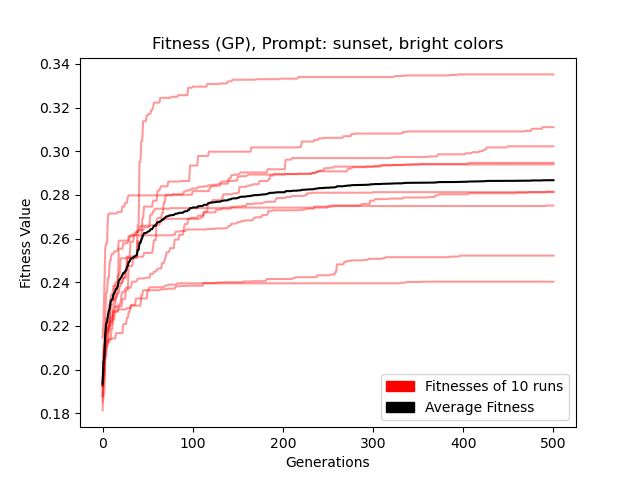
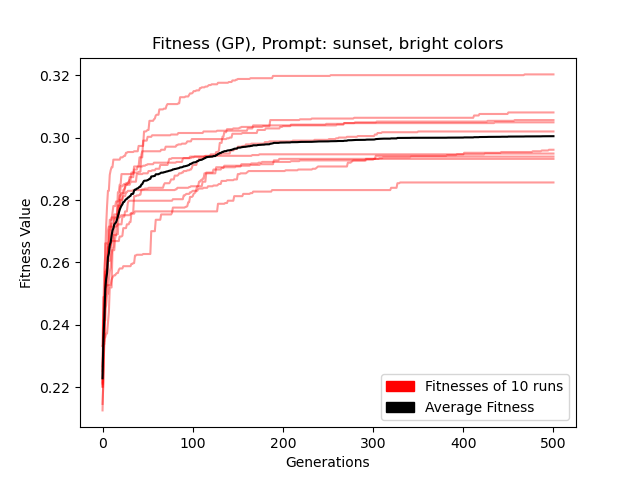
Change from smily to smiley

diff --git a/collect_stats.py b/collect_stats.py
@@ -17,12 +17,12 @@ def tolerant_mean(arrs):
     return arr.mean(axis=-1)
 
 
-def collect_cgp_stats():
-    rootdir = './cgp/runs'
+def collect_cgp_native_stats():
+    rootdir = './cgp/runs_native'
     all_fitnesses = []
 
     # Iterate over files in directory
-    for folder in os.listdir(rootdir):
+    for folder in sorted(os.listdir(rootdir)):
         if folder != ".DS_Store":
             stats_file = f'{rootdir}/{folder}/pop_stats.csv'
 
@@ -61,7 +61,54 @@ def collect_cgp_stats():
         plt.xlabel('Generations')
         plt.ylabel('Fitness Value')
 
-        plt.savefig("./stats/cgp_" + prompts[i].replace(",", "").replace(" ", "_") + ".png")
+        plt.savefig("./stats/cgp_native_" + prompts[i].replace(",", "").replace(" ", "_") + ".png")
+
+
+def collect_cgp_hal_stats():
+    rootdir = './cgp/runs_hal'
+    all_fitnesses = []
+
+    for folder in ["sunset,_bright_colors", "hot_air_balloon", "smiley"]:
+        for i in range(1, 11):
+            stats_file = f'{rootdir}/hal_cgp_{folder}_{i}/stats.csv'
+
+            if os.path.isfile(stats_file):
+                # print(stats_file)
+                df = pd.read_csv(stats_file)
+                fitnesses = df['Max Fitness'].values.tolist()
+
+                all_fitnesses.append(fitnesses)
+
+    # Calculate average from 10 lists
+    avg_first = np.array(all_fitnesses[:10]).mean(axis=0)
+    avg_second = np.array(all_fitnesses[10:20]).mean(axis=0)
+    avg_third = np.array(all_fitnesses[20:]).mean(axis=0)
+
+    averages = [avg_first, avg_second, avg_third]
+
+    generations = list(range(len(all_fitnesses[0])))
+
+    index = 0
+    for i in range(3):
+        plt.figure()
+        for j in range(10):
+            plt.plot(generations, all_fitnesses[index], label=f"Run {j}", color="red", alpha=0.4)
+            index += 1
+
+        plt.plot(generations, averages[i], label="Average", color="black")
+
+        red_patch = mpatches.Patch(color='red', label='Fitnesses of 10 runs')
+        blue_patch = mpatches.Patch(color='black', label='Average Fitness')
+
+        plt.legend(handles=[red_patch, blue_patch])
+
+        # Adding title and labels
+        plt.title('Fitness (CGP), Prompt: ' + prompts[i])
+        plt.xlabel('Generations')
+        plt.ylabel('Fitness Value')
+
+        plt.savefig("./stats/cgp_hal_" + prompts[i].replace(",", "").replace(" ", "_") + ".png")
+
 
 
 def collect_gp_stats():
@@ -69,7 +116,7 @@ def collect_gp_stats():
     all_fitnesses = []
 
     # Iterate over files in directory
-    for folder in os.listdir(rootdir):
+    for folder in sorted(os.listdir(rootdir)):
         if folder != ".DS_Store":
             stats_file = f'{rootdir}/{folder}/evolution_{folder}.csv'
 
@@ -120,11 +167,12 @@ def collect_cfdg_stats():
     all_fitnesses = []
     for folder in [sunset_folder, smiley_folder, balloons_folder]:
         experiment_fitness = []
-        for run_folder in os.listdir(folder):
-            stats_file = f'{folder}/{run_folder}/fitness/run_statistics.csv'
-            df = pd.read_csv(stats_file)
-            fitness = df['Max CLIP'].values
-            experiment_fitness.append(fitness)
+        for run_folder in sorted(os.listdir(folder)):
+            if run_folder != ".DS_Store":
+                stats_file = f'{folder}/{run_folder}/fitness/run_statistics.csv'
+                df = pd.read_csv(stats_file)
+                fitness = df['Max CLIP'].values
+                experiment_fitness.append(fitness)
         all_fitnesses.append(experiment_fitness)
 
     avg_first = tolerant_mean(all_fitnesses[0])
@@ -160,7 +208,7 @@ def collect_neat_stats():
     all_fitnesses = []
 
     # Iterate over files in directory
-    for folder in os.listdir(rootdir):
+    for folder in sorted(os.listdir(rootdir)):
         if folder != ".DS_Store":
             stats_file = f'{rootdir}/{folder}/stats.csv'
 
@@ -208,7 +256,8 @@ def collect_neat_stats():
 
 
 def main():
-    collect_cgp_stats()
+    collect_cgp_hal_stats()
+    collect_cgp_native_stats()
     collect_gp_stats()
     collect_cfdg_stats()
     collect_neat_stats()

diff --git a/cgp/evolve_temp.py b/cgp/evolve_temp.py
@@ -110,7 +110,7 @@ initial_seed = int(sys.argv[1])
 number_generations = int(sys.argv[2])
 
 # output_folder = "runs/" + utils.get_current_timestamp()
-output_folder = f"runs/hal_cgp_{prompt.replace(' ', '_')}_{initial_seed}"
+output_folder = f"runs_hal/hal_cgp_{prompt.replace(' ', '_')}_{initial_seed}"
 utils.create_directory(output_folder)
 
 population_params = {"n_parents": 20, "seed": initial_seed}
